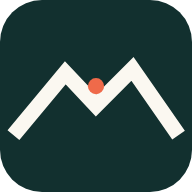
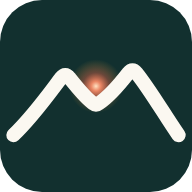
Soften the Pitons mark: rounded tips, curved flanks, a glow instead of a dot
The first cut kept the artwork's hard angles, mitred tips and a solid coral dot,
and read masculine for a brand that is feminine and circular in nature (which is
why the concentric ring worked). Same peaks, gentler drawing:

- Tips and valley rounded; flanks curve mildly. A stronger curve was tried and
  turned the Pitons into rolling hills, so it was dialled back.
- Finer line (2.6 units small, 2.2 large), round caps and joins.
- The sun is a soft radial glow (warm core, coral, gold falloff), not a dot.
- One faint gold halo ring on marks 30px and up, echoing the old circles.
- Geometry is now a path (PITON_PATH); icons, favicon, share image and the
  Foundations marks regenerated from it. Un-drawn animated line is transparent so
  a round cap cannot draw a stray dot. brand-test updated (40 checks).

diff --git a/lib/brand.js b/lib/brand.js
@@ -18,38 +18,53 @@ const esc = (s) => String(s)
   .replace(/"/g, '&quot;');
 
 /* ── The Pitons mark ───────────────────────────────────────────────────────
-   Gros Piton and Petit Piton as one continuous line, with the sun resting in the
-   valley between them. Rebuilt as a vector from the supplied artwork (500px
-   PNG): the line is a five-point polyline, measured from the pixels rather than
-   eyeballed — (0,74) (53,9) (85,42) (123,0) (176,74) in the artwork's own units,
-   halved and padded into a 92 x 40 box. Sharp peaks are the point of it, so the
-   join is mitred, not rounded.
+   Gros Piton and Petit Piton as one continuous line, with the sun as a soft glow
+   resting in the valley between them. Drawn from the supplied artwork (a 500px
+   PNG): the peaks sit where the artwork puts them — measured from the pixels —
+   but the line is SOFTENED, deliberately (2026-09-30). The first cut kept the
+   artwork's hard angles, mitred tips and a solid coral dot, and read masculine
+   for a brand that is not: Saint Lucia is a feminine, circular brand, and the
+   concentric ring it replaced was both. So the tips are rounded, the flanks curve
+   a little (not so far that the Pitons become rolling hills — a stronger version
+   was tried and lost the place), the line is finer with round caps and joins, the
+   sun is a glow with no hard edge, and on larger sizes one faint halo ring
+   echoes the old circles.
 
    THE LINE IS currentColor. It inherits ink on the cream header and paper on
-   every dark surface (footer, hero, closing invitation), so there is no
-   per-placement colour logic to keep in step. Only the sun is fixed: coral.
+   every dark surface, so there is no per-placement colour logic to keep in step.
+   Only the glow is fixed: coral core, warm gold falloff.
 
-   `height` is what a caller cares about (the header has a height budget); the
-   width follows the 2.3:1 shape. Stroke is 3 user units, which is ~1.6px at the
-   22px header size and ~2.7px at the 36px hero size — heavier as it grows, the
-   way a printed mark is.
+   `height` is what a caller cares about (the header has a height budget); width
+   follows the 2.3:1 shape. Stroke is 2.6 user units below 30px tall (~1.4px at the
+   22px header) and 2.2 above, so the line stays visible small and delicate large.
+   The halo ring appears from 30px up: a hairline at 22px is just noise.
 
-   `animate` adds the pieces the draw-and-glow animation needs: pathLength=1 on
-   the line (so one dasharray fits any size), and a blurred gold duplicate behind
-   it. Without the class hooks css/site.css + js/motion.js key on, the mark is
-   simply drawn — which is also the reduced-motion and no-JavaScript state. Use
-   `sun: false` below ~20px, where a dot is a smudge. */
-const PITON_POINTS = '3,37 30,4.5 46,21.5 65,2.5 89,37';
-function pitonsMark({ height = 22, animate = false, breathe = false, sun = true } = {}) {
+   `animate` adds what the draw-and-glow animation needs: pathLength=1 on the line
+   (so one dasharray fits any size) and a blurred gold duplicate behind it. Without
+   the class hooks css/site.css + js/motion.js key on, the mark is simply drawn —
+   which is also the reduced-motion and no-JavaScript state. `sun: false` drops the
+   glow for the tiniest renderings.
+
+   Each mark needs its own gradient id (ids are document-wide), hence the counter. */
+const PITON_PATH = 'M3 37 C13 27.5 21.5 15.5 27.8 7.2 Q30 4.2 32.2 7.2 C36.8 13 41.2 18.2 44.7 20.6 Q46 21.7 47.3 20.6 C51.6 17.8 57.6 11.4 62.9 4.6 Q65 2 67.1 4.6 C74.6 14 82 27 89 37';
+let sunSeq = 0;
+function pitonsMark({ height = 22, animate = false, breathe = false, sun = true, halo } = {}) {
   const width = Math.round(height * (92 / 40) * 10) / 10;
   const cls = ['piton-mark', animate ? 'piton-mark--animate' : '', breathe ? 'piton-mark--breathe' : '']
     .filter(Boolean).join(' ');
+  const stroke = height < 30 ? 2.6 : 2.2;
+  const showHalo = sun && (halo === undefined ? height >= 30 : halo);
+  const gid = 'piton-sun-' + (++sunSeq);
   return `<svg class="${cls}" width="${width}" height="${height}" viewBox="0 0 92 40" aria-hidden="true" focusable="false">${
-    animate ? `
-  <polyline class="piton-glow" points="${PITON_POINTS}" pathLength="1" fill="none" stroke="#D9A03C" stroke-width="6" stroke-linejoin="round"/>` : ''}
-  <polyline class="piton-line" points="${PITON_POINTS}" pathLength="1" fill="none" stroke="currentColor" stroke-width="3" stroke-linejoin="miter" stroke-miterlimit="6"/>${
     sun ? `
-  <circle class="piton-sun" cx="46" cy="11.5" r="3.2" fill="#EF6A4A"/>` : ''}
+  <defs><radialGradient id="${gid}"><stop offset="0" stop-color="#FFE2C2"/><stop offset=".18" stop-color="#F58A66" stop-opacity=".95"/><stop offset=".5" stop-color="#EF6A4A" stop-opacity=".32"/><stop offset="1" stop-color="#D9A03C" stop-opacity="0"/></radialGradient></defs>` : ''}${
+    showHalo ? `
+  <circle class="piton-halo" cx="46" cy="11.5" r="17" fill="none" stroke="#D9A03C" stroke-width=".6"/>` : ''}${
+    sun ? `
+  <circle class="piton-sun" cx="46" cy="11.5" r="13" fill="url(#${gid})"/>` : ''}${
+    animate ? `
+  <path class="piton-glow" d="${PITON_PATH}" pathLength="1" fill="none" stroke="#D9A03C" stroke-width="5.5" stroke-linejoin="round" stroke-linecap="round"/>` : ''}
+  <path class="piton-line" d="${PITON_PATH}" pathLength="1" fill="none" stroke="currentColor" stroke-width="${stroke}" stroke-linejoin="round" stroke-linecap="round"/>
 </svg>`;
 }
 
@@ -94,4 +109,4 @@ function coordMark(text = '13°54′N  60°58′W') {
   return `<p class="coords">${esc(text)}</p>`;
 }
 
-module.exports = { esc, pitonsMark, PITON_POINTS, eclipseMark, wordmark, coordMark };
+module.exports = { esc, pitonsMark, PITON_PATH, eclipseMark, wordmark, coordMark };

diff --git a/tools/brand-test.js b/tools/brand-test.js
@@ -91,28 +91,37 @@ const adv = by('/advisors/intro');
 ok('a conversion-layout page has the mark in header and footer', /piton-mark/.test(header(adv)) && /piton-mark/.test(footer(adv)));
 ok('the Eclipse mark is untouched (a separate identity)', /eclipse-mark/.test(by('/eclipse')));
 ok('the Foundations hero mark is the Pitons mark, with its glow layer',
-   /hero-journeyline[\s\S]{0,400}piton-glow/.test(by('/advisors/foundations')));
-ok('the sun is coral and the line is currentColor (so it is right on any surface)',
-   /class="piton-line"[^>]*stroke="currentColor"/.test(home) && /class="piton-sun"[^>]*fill="#EF6A4A"/.test(home));
+   /hero-journeyline[\s\S]{0,1400}piton-glow/.test(by('/advisors/foundations')));
+ok('the line is currentColor (so it is right on any surface) with round joins and caps — softened, not mitred',
+   /class="piton-line"[^>]*stroke="currentColor"[^>]*stroke-linejoin="round" stroke-linecap="round"/.test(home));
+ok('the sun is a soft glow (radial gradient, coral core), NOT a hard dot',
+   /class="piton-sun"[^>]*fill="url\(#piton-sun-\d+\)"/.test(home) && /<radialGradient[\s\S]{0,400}#EF6A4A/.test(home)
+     && !/<circle class="piton-sun"[^>]*fill="#EF6A4A"/.test(home));
+ok('gradient ids are unique within every page (ids are document-wide; a clash would blank a mark)',
+   pages.every((pg) => { const ids = (pg.html.match(/id="piton-sun-[\w-]+"/g) || []); return new Set(ids).size === ids.length; }));
+ok('the halo ring is on the large marks and not on the header (a hairline at 22px is noise)',
+   /class="piton-halo"/.test(home.slice(home.indexOf('hero-signature'))) && !/piton-halo/.test(header(home)));
 ok('marks are decorative to assistive tech (the wordmark text names the brand)', !/piton-mark[^>]*role="img"/.test(home) && /class="piton-mark[^>]*aria-hidden="true"/.test(home));
 
 /* ── 2 · one geometry ─────────────────────────────────────────────────── */
 console.log('\n  One geometry');
 const brand = require('../lib/brand.js');
 const svg = brand.pitonsMark({ height: 22 });
-const pts = (/points="([^"]+)"/.exec(svg) || [])[1];
+const D = brand.PITON_PATH;
 ok('lib/brand.js exports pitonsMark and no longer exports ringMark', typeof brand.pitonsMark === 'function' && brand.ringMark === undefined);
 ok('the mark is 2.3:1 (width follows height)', /width="50\.6" height="22" viewBox="0 0 92 40"/.test(svg), svg.slice(0, 120));
 ok('a mark with no animation has no glow layer; an animated one has', !/piton-glow/.test(svg) && /piton-glow/.test(brand.pitonsMark({ animate: true })));
 ok('sun can be dropped for tiny sizes', !/piton-sun/.test(brand.pitonsMark({ sun: false })));
-ok('the icon generator uses the same five points', new RegExp(`POINTS = '${pts}'`).test(read('tools/build-brand-marks.py')), pts);
-ok('the share-image template uses the same five points', read('tools/brand/og.html').includes(`points="${pts}"`));
-ok('the favicon uses the same five points', read('assets/favicon.svg').includes(`points="${pts}"`));
+ok('the icon generator uses the same path', read('tools/build-brand-marks.py').includes(`PATH = '${D}'`));
+ok('the share-image template uses the same path', read('tools/brand/og.html').includes(`d="${D}"`));
+ok('the favicon uses the same path', read('assets/favicon.svg').includes(`d="${D}"`));
 ok('the Foundations favicon is the same file', read('assets/favicon.svg') === read('advisors/foundations/assets/favicon.svg'));
-ok('the Foundations page\'s inline marks use the same five points',
-   (read('advisors/foundations/index.src.html').match(new RegExp(`class="piton-line" points="${pts}"`, 'g')) || []).length === 3);
-ok('the peaks are as measured from the supplied artwork (five points, peaks higher than the valley)',
-   pts.split(' ').length === 5 && (() => { const y = pts.split(' ').map((p) => +p.split(',')[1]); return y[1] < y[2] && y[3] < y[2] && y[0] > y[1] && y[4] > y[3]; })());
+ok('the Foundations page\'s inline marks use the same path',
+   (read('advisors/foundations/index.src.html').split(`class="piton-line" d="${D}"`).length - 1) === 3);
+ok('the path is soft: rounded tips and valley (three quadratic curves), no hard straight segments',
+   /^M3 37 /.test(D) && / 89 37$/.test(D) && (D.match(/Q/g) || []).length === 3 && !/[LHVZlhvz]/.test(D), D);
+ok('the peaks are where the supplied artwork puts them (tips near x 30 and 65, valley near x 46)',
+   (() => { const q = D.match(/Q(\S+) (\S+) (\S+) (\S+)/g).map((m) => m.slice(1).split(' ').map(Number)); return Math.abs(q[0][0] - 30) < 1.5 && Math.abs(q[1][0] - 46) < 1.5 && Math.abs(q[2][0] - 65) < 1.5; })(), D);
 
 /* ── 3 · assets and the head ──────────────────────────────────────────── */
 console.log('\n  Assets and <head>');
@@ -137,6 +146,8 @@ ok('the hidden-until-drawn state exists only under body[data-motion="ready"]',
    hiders.map(([l]) => l.trim()).join(' | '));
 ok('the sun\'s hidden state is gated the same way',
    /body\[data-motion="ready"\] \.piton-mark--animate \.piton-sun \{\s*opacity: 0;/.test(css));
+ok('the un-drawn line is also transparent (a round cap would otherwise draw a dot)',
+   /body\[data-motion="ready"\] \.piton-mark--animate \.piton-line \{ opacity: 0; \}/.test(css));
 ok('the base rule leaves the glow invisible (a static mark has no halo)', /\.piton-mark \.piton-glow \{ opacity: 0; \}/.test(read('css/chrome.css')));
 ok('the ring\'s sonar-ping animation is gone', !/sig-ping/.test(css) && !/cta-ping|cta-bump/.test(read('css/practitioners.css')));
 ok('the Foundations page drops every animation under reduced motion (mark stays drawn)',

diff --git a/advisors/foundations/index.src.html b/advisors/foundations/index.src.html
@@ -56,8 +56,9 @@
   <nav class="nav wrap" aria-label="Primary">
     <a class="nav-brand" href="#top" aria-label="Saint Lucia Well Destination — home">
       <svg class="piton-mark" width="50.6" height="22" viewBox="0 0 92 40" aria-hidden="true" focusable="false">
-        <polyline class="piton-line" points="3,37 30,4.5 46,21.5 65,2.5 89,37" pathLength="1" fill="none" stroke="currentColor" stroke-width="3" stroke-linejoin="miter" stroke-miterlimit="6"/>
-        <circle class="piton-sun" cx="46" cy="11.5" r="3.2" fill="#EF6A4A"/>
+        <defs><radialGradient id="piton-sun-f1"><stop offset="0" stop-color="#FFE2C2"/><stop offset=".18" stop-color="#F58A66" stop-opacity=".95"/><stop offset=".5" stop-color="#EF6A4A" stop-opacity=".32"/><stop offset="1" stop-color="#D9A03C" stop-opacity="0"/></radialGradient></defs>
+        <circle class="piton-sun" cx="46" cy="11.5" r="13" fill="url(#piton-sun-f1)"/>
+        <path class="piton-line" d="M3 37 C13 27.5 21.5 15.5 27.8 7.2 Q30 4.2 32.2 7.2 C36.8 13 41.2 18.2 44.7 20.6 Q46 21.7 47.3 20.6 C51.6 17.8 57.6 11.4 62.9 4.6 Q65 2 67.1 4.6 C74.6 14 82 27 89 37" pathLength="1" fill="none" stroke="currentColor" stroke-width="2.6" stroke-linejoin="round" stroke-linecap="round"/>
       </svg>
       <span>Saint Lucia <b>Well Destination</b></span>
     </a>
@@ -98,9 +99,11 @@
     </div>
     <div class="hero-journeyline" aria-hidden="true">
       <svg class="piton-mark" width="82.8" height="36" viewBox="0 0 92 40" aria-hidden="true" focusable="false">
-        <polyline class="piton-glow" points="3,37 30,4.5 46,21.5 65,2.5 89,37" pathLength="1" fill="none" stroke="#D9A03C" stroke-width="6" stroke-linejoin="round"/>
-        <polyline class="piton-line" points="3,37 30,4.5 46,21.5 65,2.5 89,37" pathLength="1" fill="none" stroke="currentColor" stroke-width="3" stroke-linejoin="miter" stroke-miterlimit="6"/>
-        <circle class="piton-sun" cx="46" cy="11.5" r="3.2" fill="#EF6A4A"/>
+        <defs><radialGradient id="piton-sun-f2"><stop offset="0" stop-color="#FFE2C2"/><stop offset=".18" stop-color="#F58A66" stop-opacity=".95"/><stop offset=".5" stop-color="#EF6A4A" stop-opacity=".32"/><stop offset="1" stop-color="#D9A03C" stop-opacity="0"/></radialGradient></defs>
+        <circle class="piton-halo" cx="46" cy="11.5" r="17" fill="none" stroke="#D9A03C" stroke-width=".6"/>
+        <circle class="piton-sun" cx="46" cy="11.5" r="13" fill="url(#piton-sun-f2)"/>
+        <path class="piton-glow" d="M3 37 C13 27.5 21.5 15.5 27.8 7.2 Q30 4.2 32.2 7.2 C36.8 13 41.2 18.2 44.7 20.6 Q46 21.7 47.3 20.6 C51.6 17.8 57.6 11.4 62.9 4.6 Q65 2 67.1 4.6 C74.6 14 82 27 89 37" pathLength="1" fill="none" stroke="#D9A03C" stroke-width="5.5" stroke-linejoin="round" stroke-linecap="round"/>
+        <path class="piton-line" d="M3 37 C13 27.5 21.5 15.5 27.8 7.2 Q30 4.2 32.2 7.2 C36.8 13 41.2 18.2 44.7 20.6 Q46 21.7 47.3 20.6 C51.6 17.8 57.6 11.4 62.9 4.6 Q65 2 67.1 4.6 C74.6 14 82 27 89 37" pathLength="1" fill="none" stroke="currentColor" stroke-width="2.2" stroke-linejoin="round" stroke-linecap="round"/>
       </svg>
       <div class="thread"></div>
       <p class="hero-coords">13°54′N&nbsp;&nbsp;60°58′W</p>
@@ -971,8 +974,9 @@
       <div class="footer-brand">
         <div class="footer-brand-mark">
           <svg class="piton-mark" width="59.8" height="26" viewBox="0 0 92 40" aria-hidden="true" focusable="false">
-        <polyline class="piton-line" points="3,37 30,4.5 46,21.5 65,2.5 89,37" pathLength="1" fill="none" stroke="currentColor" stroke-width="3" stroke-linejoin="miter" stroke-miterlimit="6"/>
-        <circle class="piton-sun" cx="46" cy="11.5" r="3.2" fill="#EF6A4A"/>
+        <defs><radialGradient id="piton-sun-f3"><stop offset="0" stop-color="#FFE2C2"/><stop offset=".18" stop-color="#F58A66" stop-opacity=".95"/><stop offset=".5" stop-color="#EF6A4A" stop-opacity=".32"/><stop offset="1" stop-color="#D9A03C" stop-opacity="0"/></radialGradient></defs>
+        <circle class="piton-sun" cx="46" cy="11.5" r="13" fill="url(#piton-sun-f3)"/>
+        <path class="piton-line" d="M3 37 C13 27.5 21.5 15.5 27.8 7.2 Q30 4.2 32.2 7.2 C36.8 13 41.2 18.2 44.7 20.6 Q46 21.7 47.3 20.6 C51.6 17.8 57.6 11.4 62.9 4.6 Q65 2 67.1 4.6 C74.6 14 82 27 89 37" pathLength="1" fill="none" stroke="currentColor" stroke-width="2.6" stroke-linejoin="round" stroke-linecap="round"/>
       </svg>
           <p class="wordmark">Saint Lucia <b>Well&nbsp;Destination</b></p>
         </div>

diff --git a/css/site.css b/css/site.css
@@ -2583,16 +2583,22 @@ body[data-motion="ready"] .settled {
    Only stroke-dashoffset, opacity, scale and a bounded blur on a ~80px SVG. */
 body[data-motion="ready"] .piton-mark--animate .piton-line,
 body[data-motion="ready"] .piton-mark--animate .piton-glow { stroke-dasharray: 1; stroke-dashoffset: 1; }
+/* Round caps draw a dot even on a zero-length dash, so the un-drawn line is also
+   transparent (the draw itself switches it back on at once). */
+body[data-motion="ready"] .piton-mark--animate .piton-line { opacity: 0; }
 body[data-motion="ready"] .piton-mark--animate .piton-glow { filter: blur(1.6px); }
 body[data-motion="ready"] .piton-mark--animate .piton-sun {
   opacity: 0; scale: 0.35;
   transform-box: fill-box; transform-origin: center;
 }
+body[data-motion="ready"] .piton-mark--animate .piton-halo { opacity: 0; }
 body[data-motion="ready"] .piton-mark--animate.is-drawn .piton-line,
 body[data-motion="ready"] .piton-mark--animate.is-drawn .piton-glow {
   stroke-dashoffset: 0;
   transition: stroke-dashoffset 1.5s var(--ease-out-expo);
 }
+body[data-motion="ready"] .piton-mark--animate.is-drawn .piton-line { opacity: 1; }
+body[data-motion="ready"] .piton-mark--animate.is-drawn .piton-halo { opacity: 0.34; transition: opacity 1.4s var(--ease-out-quint) 1.3s; }
 body[data-motion="ready"] .piton-mark--animate.is-drawn .piton-sun {
   opacity: 1; scale: 1;
   transition: opacity 0.5s var(--ease-out-quint) 1.1s, scale 0.9s var(--ease-out-expo) 1.1s;

diff --git a/advisors/foundations/css/site.css b/advisors/foundations/css/site.css
@@ -262,11 +262,15 @@ body.js:not(.loaded) .hero [data-splitted].in .wi { transform: translateY(112%);
    leaves the mark drawn and complete. */
 .hero-journeyline .piton-line,
 .hero-journeyline .piton-glow { stroke-dasharray: 1; animation: piton-draw 1.5s cubic-bezier(0.16, 1, 0.3, 1) 0.4s both; }
+.hero-journeyline .piton-line { animation: piton-draw 1.5s cubic-bezier(0.16, 1, 0.3, 1) 0.4s both, piton-show 0.01s 0.4s both; }
 .hero-journeyline .piton-glow { filter: blur(1.6px); animation: piton-draw 1.5s cubic-bezier(0.16, 1, 0.3, 1) 0.4s both, piton-glow 2.8s cubic-bezier(0.22, 1, 0.36, 1) 0.4s both; }
 .hero-journeyline .piton-sun { transform-box: fill-box; transform-origin: center; animation: piton-sun 0.9s cubic-bezier(0.16, 1, 0.3, 1) 1.5s both; }
 @keyframes piton-draw { from { stroke-dashoffset: 1; } to { stroke-dashoffset: 0; } }
 @keyframes piton-glow { 0% { opacity: 0; } 25% { opacity: 0.85; } 100% { opacity: 0.28; } }
 @keyframes piton-sun  { from { opacity: 0; scale: 0.35; } to { opacity: 1; scale: 1; } }
+@keyframes piton-show { from { opacity: 0; } to { opacity: 1; } }
+.hero-journeyline .piton-halo { animation: piton-halo-in 1.4s cubic-bezier(0.22, 1, 0.36, 1) 1.7s both; }
+@keyframes piton-halo-in { from { opacity: 0; } to { opacity: 0.34; } }
 .hero-journeyline .thread { animation: thread-breathe 4.5s ease-in-out infinite; }
 @keyframes thread-breathe { 0%, 100% { opacity: 1; } 50% { opacity: 0.45; } }
 

diff --git a/tools/brand/og.html b/tools/brand/og.html
@@ -43,10 +43,12 @@
 <body>
 <div class="frame">
   <div class="brand">
-    <!-- Same geometry as lib/brand.js pitonsMark(); line paper, sun coral. -->
-    <svg width="92" height="40" viewBox="0 0 92 40" aria-hidden="true">
-      <polyline points="3,37 30,4.5 46,21.5 65,2.5 89,37" fill="none" stroke="#FBF8F1" stroke-width="3" stroke-linejoin="miter" stroke-miterlimit="6"/>
-      <circle cx="46" cy="11.5" r="3.2" fill="#EF6A4A"/>
+    <!-- Same geometry as lib/brand.js pitonsMark(); line paper, soft glow. -->
+    <svg width="101" height="44" viewBox="0 0 92 40" aria-hidden="true">
+      <defs><radialGradient id="g"><stop offset="0" stop-color="#FFE2C2"/><stop offset=".18" stop-color="#F58A66" stop-opacity=".95"/><stop offset=".5" stop-color="#EF6A4A" stop-opacity=".32"/><stop offset="1" stop-color="#D9A03C" stop-opacity="0"/></radialGradient></defs>
+      <circle cx="46" cy="11.5" r="17" fill="none" stroke="#D9A03C" stroke-width=".6" opacity=".34"/>
+      <circle cx="46" cy="11.5" r="13" fill="url(#g)"/>
+      <path d="M3 37 C13 27.5 21.5 15.5 27.8 7.2 Q30 4.2 32.2 7.2 C36.8 13 41.2 18.2 44.7 20.6 Q46 21.7 47.3 20.6 C51.6 17.8 57.6 11.4 62.9 4.6 Q65 2 67.1 4.6 C74.6 14 82 27 89 37" fill="none" stroke="#FBF8F1" stroke-width="2.2" stroke-linejoin="round" stroke-linecap="round"/>
     </svg>
     <span>Discover Saint Lucia <b>WELL</b></span>
   </div>

diff --git a/css/chrome.css b/css/chrome.css
@@ -297,6 +297,7 @@ body[data-enhanced="true"][data-hero="dark"] .site-header[data-at-top="true"] {
    turns it on, so a mark with no motion is simply a drawn mark. */
 .piton-mark { display: block; flex: none; overflow: visible; }
 .piton-mark .piton-glow { opacity: 0; }
+.piton-mark .piton-halo { opacity: 0.34; }
 
 .brand-words {
   display: flex;

diff --git a/tools/build-brand-marks.py b/tools/build-brand-marks.py
@@ -27,7 +27,7 @@ CHROME = r'C:\Program Files\Google\Chrome\Application\chrome.exe'
 INK = '#12302F'       # --ink: the deep tile colour, matching the supplied artwork
 PAPER = '#FBF8F1'     # --paper
 CORAL = '#EF6A4A'
-POINTS = '3,37 30,4.5 46,21.5 65,2.5 89,37'   # keep in step with lib/brand.js
+PATH = 'M3 37 C13 27.5 21.5 15.5 27.8 7.2 Q30 4.2 32.2 7.2 C36.8 13 41.2 18.2 44.7 20.6 Q46 21.7 47.3 20.6 C51.6 17.8 57.6 11.4 62.9 4.6 Q65 2 67.1 4.6 C74.6 14 82 27 89 37'   # keep in step with lib/brand.js (PITON_PATH)
 SUN = (46, 11.5)
 
 
@@ -36,13 +36,13 @@ def tile_svg(rounded=True, mark_scale=0.32):
     tx = 16 - 46 * mark_scale
     ty = 17 - 19.75 * mark_scale
     rx = ' rx="7"' if rounded else ''
-    stroke = 8   # local units; x mark_scale = px at 32
-    sun_r = 4.2
+    stroke = 7.4   # local units; x mark_scale = ~2.4px at 32
     return f'''<svg xmlns="http://www.w3.org/2000/svg" viewBox="0 0 32 32">
+  <defs><radialGradient id="g"><stop offset="0" stop-color="#FFE2C2"/><stop offset=".18" stop-color="#F58A66" stop-opacity=".95"/><stop offset=".5" stop-color="#EF6A4A" stop-opacity=".4"/><stop offset="1" stop-color="#D9A03C" stop-opacity="0"/></radialGradient></defs>
   <rect width="32" height="32"{rx} fill="{INK}"/>
   <g transform="translate({tx:.2f} {ty:.2f}) scale({mark_scale})">
-    <polyline points="{POINTS}" fill="none" stroke="{PAPER}" stroke-width="{stroke}" stroke-linejoin="miter" stroke-miterlimit="6"/>
-    <circle cx="{SUN[0]}" cy="{SUN[1]}" r="{sun_r}" fill="{CORAL}"/>
+    <circle cx="{SUN[0]}" cy="{SUN[1]}" r="14" fill="url(#g)"/>
+    <path d="{PATH}" fill="none" stroke="{PAPER}" stroke-width="{stroke}" stroke-linejoin="round" stroke-linecap="round"/>
   </g>
 </svg>
 '''
